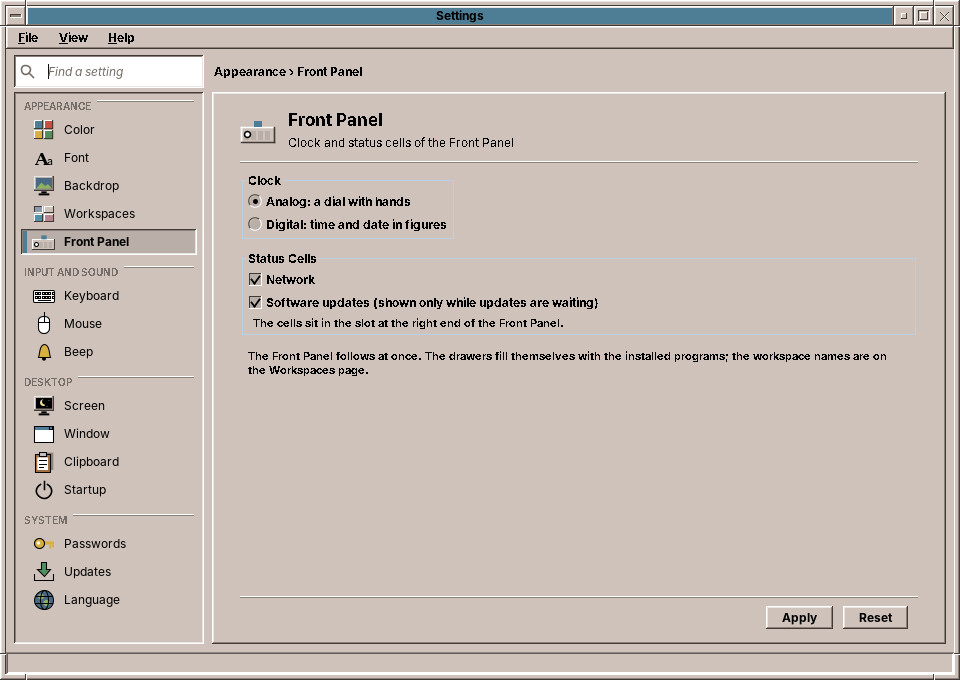
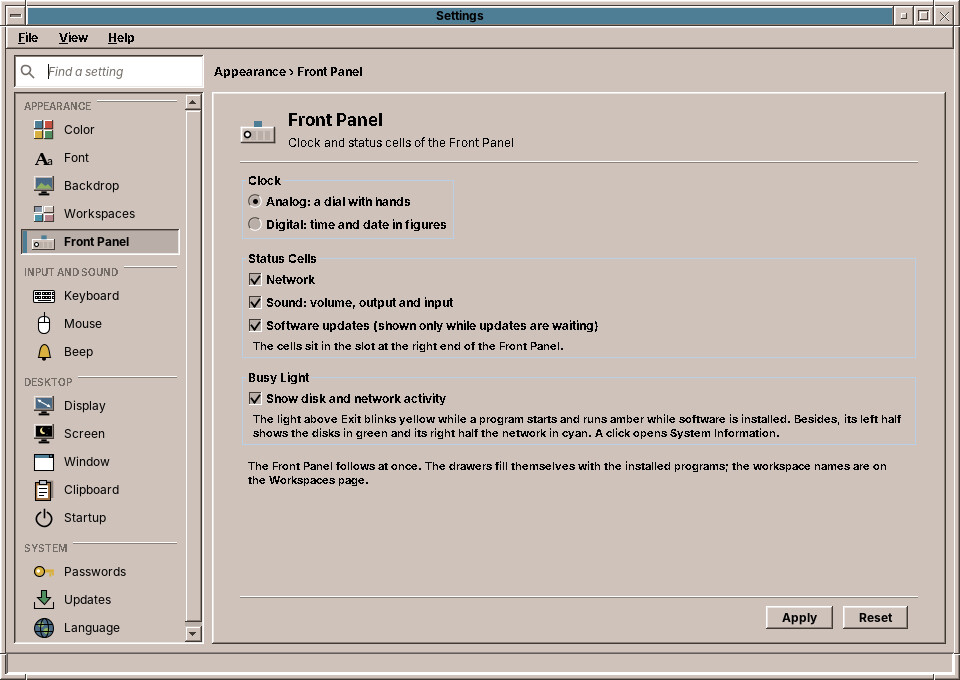
User's Handbook: the sound cell of the Front Panel (#78)
Chapter 27 describes the new sound cell (menu, wheel, middle click) with
a picture, chapter 22, 37 (and its Settings picture), 57 and the
appendices name it; ROADMAP and CONCEPT follow.

Claude-Session: https://claude.ai/code/session_01KtJ2DceNPUmHTReRTdWC7z

diff --git a/ROADMAP.md b/ROADMAP.md
@@ -117,6 +117,7 @@ The architectural decisions and rejected alternatives are documented in [`CONCEP
 - **NsCDE as default icon theme (merged as #15, live image boot-tested 2026-10-13):** `DesktopTheme.DEFAULT_ICON_THEME = "NsCDE"` in amade-commons; `build-image.sh` builds `nscde-icon-theme` automatically when `config/packages.chroot` lacks it. The former built-in "classic" icon set (eight PNGs rendered from the Java2D fallback, in the jar and in `/etc/amadeos/themes/classic`) is removed; icon names no theme provides still fall back to `/usr/share/pixmaps` and the Java2D drawings, and an icon theme that is not installed (e.g. an old `icon_theme.conf` with `classic`) resolves through NsCDE. The Style Manager lists real icon themes only (with `index.theme` or `icons/`), NsCDE first, hicolor hidden.
 - **Application suite (M13):** amade-mail is packaged into the image (`config/packages.chroot/amade-mail_0.1.0_all.deb`) and appears in the Mail drawer through its `Email` category; Gmail OAuth2 is implemented but not yet tested against Google. The front panel's File Manager, Printer, Help and Trash slots still open `xterm` shell commands, and the Calendar slot looks for `orage`, `gnome-calendar` or `korganizer`.
 - **Network (live image not yet boot-tested):** NetworkManager, wpasupplicant, wireless-regdb and firmware for Intel, Realtek, Atheros, Broadcom and MediaTek chips in the image; a polkit rule (`/etc/polkit-1/rules.d/50-amadeos-network.rules`) lets the `netdev` group manage connections. Ethernet connects by DHCP on its own. The new status slot (slot 13, outermost right) shows Ethernet or the WLAN signal; its menu lists the networks in range, joins them (password asked once, then saved by NetworkManager and reconnected at the next start), disconnects, forgets and switches WLAN off. "Network settings…" opens `nmtui` in xterm for now. The slot takes up to four indicators; sound, battery and Bluetooth come next. The WLAN password is passed to `nmcli` as an argument, so it is briefly visible in the process list; a D-Bus client would avoid that.
+- **Sound cell in the Front Panel (not yet boot-tested):** a `SoundCell` next to the network cell in the status slot (amadeos-system `panel-cde`, `PactlSoundService` in base): the loudspeaker shows the volume in waves or an X when muted; its menu has a volume slider with mute, the outputs and inputs as radio items (choosing one moves the running streams) and *Mute microphone*; mouse wheel changes the volume, middle click mutes. Talks to PipeWire through `pactl` and follows `pactl subscribe`. Settings > Front Panel can hide it (`cell.sound`). Checked under Xvfb with a stand-in `pactl`, not yet against PipeWire in QEMU.
 - **Bell through the sound card (not yet boot-tested):** the X bell only drove the PC speaker, which QEMU (`run-qemu.sh` has only Intel HDA) and most laptops lack, so nothing was heard. The window manager now switches the server's audible bell off over XKB, receives every bell as an `XkbBellNotify` event and plays it through ALSA's `default` device (PipeWire) with the volume, tone and duration from `xset b`, i.e. the Style Manager's Beep settings; overlapping bells are dropped. On exit it hands the bell back to the server. Event layout verified on Xvfb; Xvfb ignores `xset b`, so the Beep settings still need checking on real Xorg.
 - **README rework (PR #16, open):** "Digital Sovereignty starts on your desktop".
 - **Compatibility, security, and release hardening (M12):** NsCDE icon debian package build (`scripts/package-nscde-icons.sh --deb`), drop-in live package verification, ISO rebuild via `./build.sh`, and end-to-end QEMU live boot testing.

diff --git a/docs/handbook/chapters/27-network-sound-printing.md b/docs/handbook/chapters/27-network-sound-printing.md
@@ -25,10 +25,26 @@ If the cell shows a cross, there is no connection; *Not connected* in its toolti
 
 Sound works without setting anything up: amadeOS uses PipeWire, the sound system of current Linux distributions, for speakers, headphones and USB sound cards. Programs that play sound, the Audio Station, the Video Player, the games and Firefox, use the device that is active.
 
-Set the volume in the program that plays; most of them have a volume control.
+The **sound cell** next to the network cell sets the volume for the whole computer. Its loudspeaker shows one to three waves for how loud it is, and an X when the sound is muted.
 
-!!! planned "Planned"
-    A sound cell in the Front Panel, with the volume and the choice of the output device, will join the network and update cells. Until then, `pactl set-sink-volume @DEFAULT_SINK@ 50%` in a terminal sets the volume, and `pactl list short sinks` lists the devices.
+![The menu of the sound cell](images/27/sound-cell.jpg)
+
+Click the cell for its menu:
+
+| In the sound menu | What it does |
+|---|---|
+| The **slider** | Sets the volume from 0 to 100 %. Moving it also ends muting. |
+| The **loudspeaker** left of the slider | Mutes the sound, and a second click turns it on again. |
+| **Output** | The speakers, headphones, HDMI screens and USB headsets. Click one to play through it; what is playing moves over at once. |
+| **Input** | The microphones. Click one to record from it, for example for a video call. |
+| **Mute microphone** | Keeps the microphone in use silent. |
+
+Two shortcuts work without opening the menu: turn the **mouse wheel** over the cell to make it louder or softer in steps of 5 %, and click it with the **middle button** to mute. The tooltip names the volume and the output, for example *Volume 45 % · Built-in Audio Analog Stereo*. When the loudspeaker is grey and crossed out, the sound system is not running (chapter 57).
+
+A headset plugged in appears in the menu at once. Most programs also have a volume control of their own; it sets their share of the volume of the cell.
+
+!!! switching "Coming from Windows or macOS"
+    The sound cell is the speaker icon of the Windows taskbar or the sound control of the macOS menu bar, with the choice of the output and the input in one menu.
 
 The **beep**, the short sound the desktop makes for a mistake, is set on the *Beep* page of Settings (chapter 33).
 
@@ -49,4 +65,6 @@ If a printer does not appear by itself, open the Print Manager's drawer and choo
     The Print Manager follows CDE's `dtprintinfo`, which had its slot at the same place on the right of the Front Panel.
 
 ??? hood "Under the hood"
+    The sound cell talks to PipeWire through `pactl` (package `pulseaudio-utils`) and follows `pactl subscribe`, so a change made by another program shows at once. Volume and mute act on the default output, `@DEFAULT_SINK@`; choosing a device sets the default and moves the running streams with `pactl move-sink-input`.
+
     The network cell asks NetworkManager through `nmcli`; members of the group `netdev` may change connections without a password (polkit rule `/usr/share/polkit-1/rules.d/50-amadeos-network.rules`). *Network settings…* runs `nmtui`. The Print Manager `amadeos-print` speaks the printing protocol IPP to CUPS directly, over its socket `/run/cups/cups.sock`; members of the group `lpadmin` may pause printers and choose the default without a password. The first user of an installed system and the live user are in both groups.

diff --git a/docs/handbook/chapters/57-troubleshooting.md b/docs/handbook/chapters/57-troubleshooting.md
@@ -42,7 +42,7 @@ Lines with *SEVERE*, *ERROR*, *Exception* or *failed* are usually the ones that 
 | **A program does not start**, or closes at once | Open its log in Session Diagnostics & Logs. Start it in a terminal to see its messages directly, for example `amade-mail`. |
 | **No network**, the network cell says *Network service is not running* | `sudo systemctl restart NetworkManager` in a terminal. |
 | **No WLAN networks** in the list | The WLAN may be switched off by a key or switch on the laptop. `nmcli radio wifi on` switches it on; *System information* shows whether a WLAN device was found at all. |
-| **No sound** | Check the volume in the program. `systemctl --user restart pipewire wireplumber` starts the sound system again. |
+| **No sound** | Point at the sound cell of the Front Panel: is the volume up, and is the right output chosen in its menu (chapter 27)? Check the volume in the program too. If the loudspeaker is grey and crossed out, `systemctl --user restart pipewire pipewire-pulse wireplumber` starts the sound system again. |
 | **A printer prints nothing** | Look at its state in the Print Manager and choose *Resume* if it is paused (chapter 54). |
 | **Software says *Another program is installing software*** | The daily update check, or automatic security updates, are running. Wait a few minutes. |
 | **The window frames are gone** | The window manager has crashed; the session starts it again within a few seconds, and the windows get their frames back. If not, choose *Log Out…* in the Workspace Menu (right mouse button on the backdrop, chapter 24) and log in again. |

diff --git a/docs/handbook/chapters/22-front-panel.md b/docs/handbook/chapters/22-front-panel.md
@@ -79,10 +79,12 @@ Point at the light to see the rates, for example *Disk 12 MB/s · Network 340 KB
 
 The **network cell** shows the connection: a cable for a wired network, bars for the WLAN signal, a cross when there is none. Clicking it opens the list of WLAN networks (chapter 27).
 
+The **sound cell** beside it shows a loudspeaker with one to three waves for the volume, and an X when muted. Clicking it opens a volume slider and the choice of the output and the microphone; the mouse wheel over it makes it louder or softer, the middle button mutes (chapter 27).
+
 The **updates cell** appears only while software updates wait: an arrow into a tray with their number, on red when security updates are among them. Its menu offers *Install all updates*, *Install security updates only* and *Check now* (chapter 52).
 
 !!! planned "Planned"
-    Cells for the sound volume, the battery and Bluetooth will join the status slot.
+    Cells for the battery and Bluetooth will join the status slot.
 
 !!! cde "CDE heritage"
     The Front Panel follows CDE's: the clock and calendar on the left, the workspace switch with lock and EXIT in the middle, the Print Manager, Tools, Help and Trash Can on the right, and drawers ("subpanels" in CDE) above the slots. CDE's drawers were configured by hand; those of amadeOS fill themselves. The Games drawer and the status slot are new, and so is the language button, in the corner CDE left empty. CDE's busy light only blinked while an action started; the disk, network and install signals are new.

diff --git a/CONCEPT.md b/CONCEPT.md
@@ -67,7 +67,7 @@ The Java window manager is separate from Swing. Swing does not manage top-level 
 
 ### Front panel status slot instead of a system tray
 
-Network, and later sound, battery and Bluetooth, are shown by the front panel's status slot: up to four small Java indicators in a 2x2 grid, drawn in the panel's own style and translated with the desktop's texts. Each indicator talks to the system service directly (NetworkManager through `nmcli`, PipeWire through `wpctl`, `/sys/class/power_supply`, BlueZ).
+Network and sound, and later battery and Bluetooth, are shown by the front panel's status slot: up to four small Java indicators in a 2x2 grid, drawn in the panel's own style and translated with the desktop's texts. Each indicator talks to the system service directly (NetworkManager through `nmcli`, PipeWire through `pactl`, `/sys/class/power_supply`, BlueZ).
 
 There is deliberately no XEmbed system tray. Tray applets such as `nm-applet` or `blueman-applet` would work over the X11 protocol whatever language they are written in, but each brings its own GTK or Qt look, icon theme and dependencies, and their icons would be foreign X windows inside a Swing panel. XEmbed is also fading out: GTK 4 dropped it and current applications prefer StatusNotifierItem over D-Bus. When third-party applications (sync clients, password managers, messengers) need a tray, the plan is a StatusNotifierItem host whose icons and menus Swing draws itself, with XEmbed only as a fallback if it is missed.
 

diff --git a/docs/handbook/chapters/c-cde-heritage.md b/docs/handbook/chapters/c-cde-heritage.md
@@ -27,7 +27,7 @@ amadeOS follows the **Common Desktop Environment** (CDE), the desktop of the lar
 
 ## What is new
 
-Some parts of amadeOS have no model in CDE, because their tasks did not exist on a 1990s workstation or were solved elsewhere: the network and updates cells, **Software** for installing programs, the **clipboard history**, the **installer**, **WritePad** for documents on pages, the **Audio Station** and the **Video Player**, **Image Scan**, the **games**, and the five languages chosen at login.
+Some parts of amadeOS have no model in CDE, because their tasks did not exist on a 1990s workstation or were solved elsewhere: the network, sound and updates cells, **Software** for installing programs, the **clipboard history**, the **installer**, **WritePad** for documents on pages, the **Audio Station** and the **Video Player**, **Image Scan**, the **games**, and the five languages chosen at login.
 
 !!! cde "CDE heritage"
     CDE itself is still alive as free software at <https://sourceforge.net/projects/cdesktopenv/>. amadeOS does not use its code: it is a new desktop written in Java, in CDE's spirit.

diff --git a/docs/handbook/chapters/37-workspaces-front-panel.md b/docs/handbook/chapters/37-workspaces-front-panel.md
@@ -24,6 +24,7 @@ This is the same name you get with a click on the current workspace button in th
 | **Analog** | The clock at the left end of the Front Panel is a dial with hands. | on |
 | **Digital** | The clock shows the time and the date in figures. | off |
 | **Network** | The network cell in the status slot at the right end of the Front Panel (chapter 27). | on |
+| **Sound** | The sound cell next to the network cell: volume, output and input (chapter 27). | on |
 | **Software updates** | The updates cell, which appears only while updates are waiting (chapter 52). | on |
 | **Show disk and network activity** | The busy light above EXIT also shows the disks in green and the network in cyan (chapter 22). When it is off, the light only blinks while a program starts and runs amber while software is installed. | on |
 

diff --git a/docs/handbook/chapters/b-coming-from-windows-or-macos.md b/docs/handbook/chapters/b-coming-from-windows-or-macos.md
@@ -8,7 +8,7 @@ Where to find on amadeOS what you know from Windows or macOS.
 |---|---|---|---|
 | Start menu | Launchpad | The drawers of the Front Panel, sorted by kind; the Application Manager in the Tools slot | 22 |
 | Taskbar | Dock | The Front Panel; minimised windows as icons at the top left of the desktop | 22, 23 |
-| Notification area | Menu bar extras | The status slot of the Front Panel: network and updates | 22 |
+| Notification area | Menu bar extras | The status slot of the Front Panel: network, sound and updates | 22, 27 |
 | Virtual desktops | Spaces | Four workspaces, each with its own colour | 24 |
 | Desktop context menu | — | The Workspace Menu, right mouse button on the backdrop | 24 |
 | ++win+l++ | ++ctrl+cmd+q++ | ++super+l++, or the padlock in the Front Panel | 26 |

diff --git a/docs/handbook/chapters/d-glossary.md b/docs/handbook/chapters/d-glossary.md
@@ -111,7 +111,7 @@ The technical words of this book, in alphabetical order, with the chapter that e
 :   The program that sets the look and behaviour of the desktop: colours, text size, backdrop, keyboard, mouse, windows and more; CDE called it the Style Manager (Part IV).
 
 **Status slot**
-:   The small cells at the right of the Front Panel, for the network and the updates (chapter 22).
+:   The small cells at the right of the Front Panel, for the network, the sound and the updates (chapter 22).
 
 **sudo**
 :   The command that runs another command with administrator rights (chapter 50).
